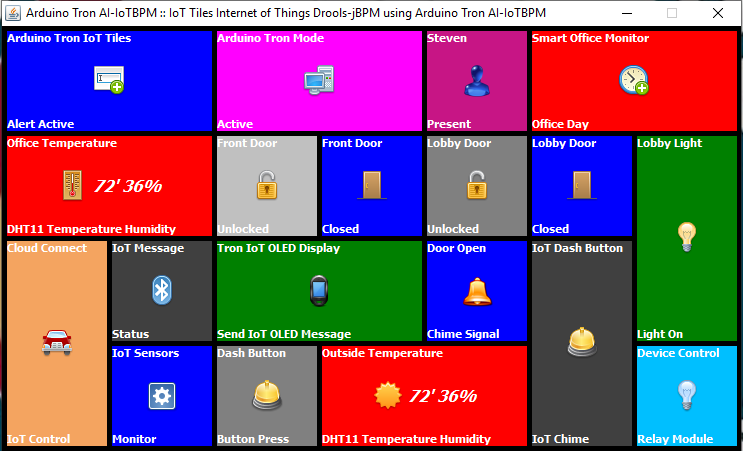
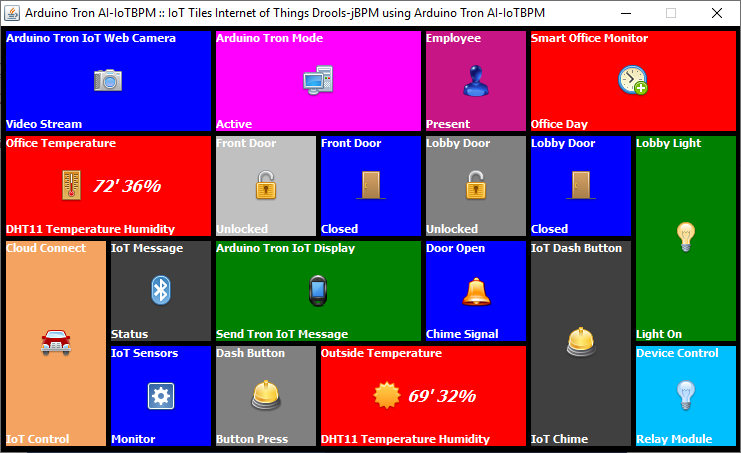
Update

diff --git a/src/main/java/com/iotbpm/iottiles/IoTTiles.java b/src/main/java/com/iotbpm/iottiles/IoTTiles.java
@@ -2,13 +2,13 @@ package com.iotbpm.iottiles;
 
 import javax.swing.JFrame;
 import javax.swing.JPanel;
-import javax.swing.JScrollPane;
 import javax.swing.JLabel;
 import javax.swing.JOptionPane;
 import javax.swing.ImageIcon;
-import javax.swing.JEditorPane;
 import javax.swing.SwingConstants;
 import javax.swing.WindowConstants;
+
+import com.iotbpm.util.WebBrowser;
 
 import java.awt.Font;
 import java.awt.Color;
@@ -18,7 +18,6 @@ import java.awt.event.MouseAdapter;
 import java.awt.event.MouseEvent;
 
 import java.io.File;
-import java.io.IOException;
 
 /**
  * Main window implementation for the Arduino Tron IoT Tiles example
@@ -33,6 +32,9 @@ public class IoTTiles {
 	private ImageIcon biosIcon;
 	private ImageIcon bluetoothIcon;
 	private ImageIcon bulbIcon;
+	private ImageIcon cameraIcon;
+	private ImageIcon camera_addIcon;
+	private ImageIcon camera_errorIcon;
 	private ImageIcon celsiusIcon;
 	private ImageIcon computerIcon;
 	private ImageIcon computer_addIcon;
@@ -186,6 +188,11 @@ public class IoTTiles {
 		biosIcon = new ImageIcon("icons" + File.separator + "bios.png");
 		bluetoothIcon = new ImageIcon("icons" + File.separator + "bluetooth.png");
 		bulbIcon = new ImageIcon("icons" + File.separator + "bulb.png");
+
+		cameraIcon = new ImageIcon("icons" + File.separator + "camera.png");
+		camera_addIcon = new ImageIcon("icons" + File.separator + "camera_add.png");
+		camera_errorIcon = new ImageIcon("icons" + File.separator + "camera_error.png");
+
 		celsiusIcon = new ImageIcon("icons" + File.separator + "celsius.png");
 		computerIcon = new ImageIcon("icons" + File.separator + "computer.png");
 		computer_addIcon = new ImageIcon("icons" + File.separator + "computer_add.png");
@@ -235,7 +242,8 @@ public class IoTTiles {
 		web_conciergeIcon = new ImageIcon("icons" + File.separator + "web_concierge.png");
 
 		panel_1 = new JPanel();
-		panel_1.setToolTipText("IoT Tiles is a control panel (dashboard) for Arduino Tron IoT Things.");
+		panel_1.setToolTipText(
+				"IoT Tiles is a control panel (dashboard) for Arduino Tron IoT Things, like the Arduino Tron IoT Camera.");
 		panel_1.addMouseListener(new MouseAdapter() {
 			@Override
 			public void mouseClicked(MouseEvent e) {
@@ -247,12 +255,12 @@ public class IoTTiles {
 		frame.getContentPane().add(panel_1);
 		panel_1.setLayout(new BorderLayout(0, 0));
 
-		JLabel lblTopLabel_1 = new JLabel("Arduino Tron IoT Tiles");
+		JLabel lblTopLabel_1 = new JLabel("Arduino Tron IoT Web Camera");
 		lblTopLabel_1.setFont(new Font("Tahoma", Font.BOLD, 11));
 		lblTopLabel_1.setForeground(Color.WHITE);
 		panel_1.add(lblTopLabel_1, BorderLayout.NORTH);
 
-		lblBottomLabel_1 = new JLabel("Alert Active");
+		lblBottomLabel_1 = new JLabel("Video Stream");
 		lblBottomLabel_1.setFont(new Font("Tahoma", Font.BOLD, 11));
 		lblBottomLabel_1.setForeground(Color.WHITE);
 		panel_1.add(lblBottomLabel_1, BorderLayout.SOUTH);
@@ -262,7 +270,7 @@ public class IoTTiles {
 		lblIconLabel_1.setForeground(Color.WHITE);
 		lblIconLabel_1.setHorizontalAlignment(SwingConstants.CENTER);
 		panel_1.add(lblIconLabel_1, BorderLayout.CENTER);
-		lblIconLabel_1.setIcon(textfield_addIcon);
+		lblIconLabel_1.setIcon(cameraIcon);
 
 		panel_2 = new JPanel();
 		panel_2.setToolTipText("The Arduino Tron IoT Things activity and behavior is fully control from IoT Tiles.");
@@ -308,7 +316,7 @@ public class IoTTiles {
 		frame.getContentPane().add(panel_3);
 		panel_3.setLayout(new BorderLayout(0, 0));
 
-		JLabel lblTopLabel_3 = new JLabel("Steven");
+		JLabel lblTopLabel_3 = new JLabel("Employee");
 		lblTopLabel_3.setFont(new Font("Tahoma", Font.BOLD, 11));
 		lblTopLabel_3.setForeground(Color.WHITE);
 		panel_3.add(lblTopLabel_3, BorderLayout.NORTH);
@@ -771,7 +779,7 @@ public class IoTTiles {
 		lblBottomLabel_18.setForeground(Color.WHITE);
 		panel_18.add(lblBottomLabel_18, BorderLayout.SOUTH);
 
-		lblIconLabel_18 = new JLabel("72' 36%");
+		lblIconLabel_18 = new JLabel("69' 32%");
 		lblIconLabel_18.setFont(new Font("Tahoma", Font.BOLD | Font.ITALIC, 16));
 		lblIconLabel_18.setForeground(Color.WHITE);
 		lblIconLabel_18.setHorizontalAlignment(SwingConstants.CENTER);
@@ -817,20 +825,14 @@ public class IoTTiles {
 
 	// Arduino Tron IoT Tiles
 	public void panel_1Clicked(MouseEvent e) {
-		String alert = com.iotbpm.model.StateList.getInstance().getState("Alert");
-		if (alert.indexOf("Quite") != -1) {
-			com.iotbpm.server.AgentConnect.getInstance().sendPost("TronIoT",
-					"/&message=*_Tiles_Alert_Active*^^^^^^^^^^^^^^^^^^^^^&");
-			com.iotbpm.model.StateList.getInstance().putState("Alert", "Active");
-			lblBottomLabel_1.setText("Alert Active");
-			lblIconLabel_1.setIcon(textfield_addIcon);
-		} else {
-			com.iotbpm.server.AgentConnect.getInstance().sendPost("TronIoT",
-					"/&message=*_Tiles_Quite_Alert_*^^^^^^^^^^^^^^^^^^^^^&");
-			com.iotbpm.model.StateList.getInstance().putState("Alert", "Quite");
-			lblBottomLabel_1.setText("Quite Alert");
-			lblIconLabel_1.setIcon(textfield_deleteIcon);
+		String webCamURL = com.iotbpm.server.AgentConnect.getInstance().agentURL("WebCam");
+		if ((webCamURL == "") || (webCamURL.indexOf("0.0.0.0") != -1)) {
+			lblIconLabel_1.setIcon(camera_errorIcon);
+			return;
 		}
+		WebBrowser wb = new WebBrowser();
+		wb.url(webCamURL);
+		lblIconLabel_1.setIcon(camera_addIcon);
 	}
 
 	// Arduino Tron Mode
@@ -850,6 +852,21 @@ public class IoTTiles {
 			lblIconLabel_2.setIcon(computer_keyIcon);
 		}
 	}
+
+//	String alert = com.iotbpm.model.StateList.getInstance().getState("Alert");
+//	if (alert.indexOf("Quite") != -1) {
+//		com.iotbpm.server.AgentConnect.getInstance().sendPost("TronIoT",
+//				"/&message=*_Tiles_Alert_Active*^^^^^^^^^^^^^^^^^^^^^&");
+//		com.iotbpm.model.StateList.getInstance().putState("Alert", "Active");
+//		lblBottomLabel_1.setText("Alert Active");
+//		lblIconLabel_1.setIcon(textfield_addIcon);
+//	} else {
+// 		com.iotbpm.server.AgentConnect.getInstance().sendPost("TronIoT",
+//				"/&message=*_Tiles_Quite_Alert_*^^^^^^^^^^^^^^^^^^^^^&");
+//		com.iotbpm.model.StateList.getInstance().putState("Alert", "Quite");
+//		lblBottomLabel_1.setText("Quite Alert");
+//		lblIconLabel_1.setIcon(textfield_deleteIcon);
+//	} 	
 
 	// RFID-RC522 Smart Card
 	public void panel_3Clicked(MouseEvent e) {
@@ -1169,21 +1186,20 @@ public class IoTTiles {
 		lblIconLabel_19.setIcon(lightbulb_offIcon);
 	}
 
-	public void web_panel(String temp) {
-		JEditorPane website = null;
-		try {
-			website = new JEditorPane("http://www.iotbpm.com/");
-		} catch (IOException e) {
-			// TODO Auto-generated catch block
-			e.printStackTrace();
-		}
-		website.setEditable(false);
+	public void web_panel(String weburl) {
+//		JEditorPane website = null;
+//		try {
+//			website = new JEditorPane("http://www.iotbpm.com/");
+//		} catch (IOException e) {
+//			e.printStackTrace();
+//		}
+//		website.setEditable(false);
 
-		JFrame frame = new JFrame("Google");
-		frame.add(new JScrollPane(website));
-		frame.setDefaultCloseOperation(JFrame.EXIT_ON_CLOSE);
-		frame.setSize(512, 342);
-		frame.setVisible(true);
+//		JFrame frame = new JFrame("Google");
+//		frame.add(new JScrollPane(website));
+//		frame.setDefaultCloseOperation(JFrame.EXIT_ON_CLOSE);
+//		frame.setSize(512, 342);
+//		frame.setVisible(true);
 		// frame.pack();
 	}
 }

diff --git a/src/main/java/com/iotbpm/server/AgentConnect.java b/src/main/java/com/iotbpm/server/AgentConnect.java
@@ -130,6 +130,15 @@ public class AgentConnect {
 		}
 	}
 
+	// get Agent URL
+	public String agentURL(String agentName) {
+		String agentIP = agentsList.getAgent(agentName);
+		if ((agentIP == "") || (agentIP.indexOf("0.0.0.0") != -1)) {
+			agentNotDefined(agentName);
+		}
+		return agentIP;
+	}
+	
 	public void agentNotDefined(String agentName) {
 		System.err.println("Note: Send Arduino Command " + agentName
 				+ " in agentDevice=[AgentName,http://10.0.0.2,...] defined in iotbpm.properties file.");
